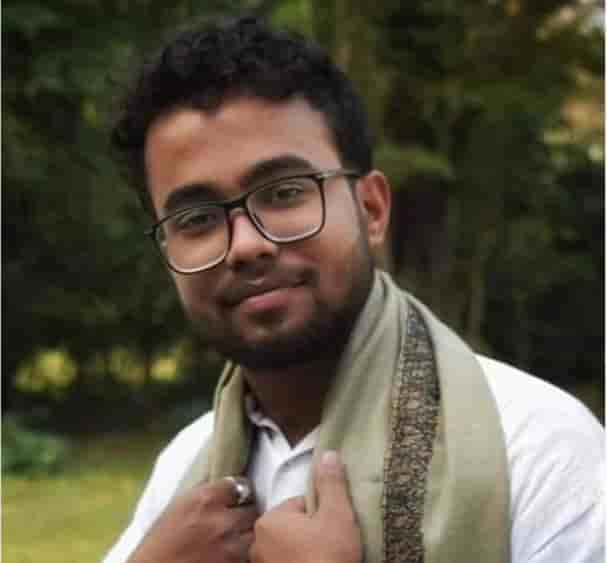
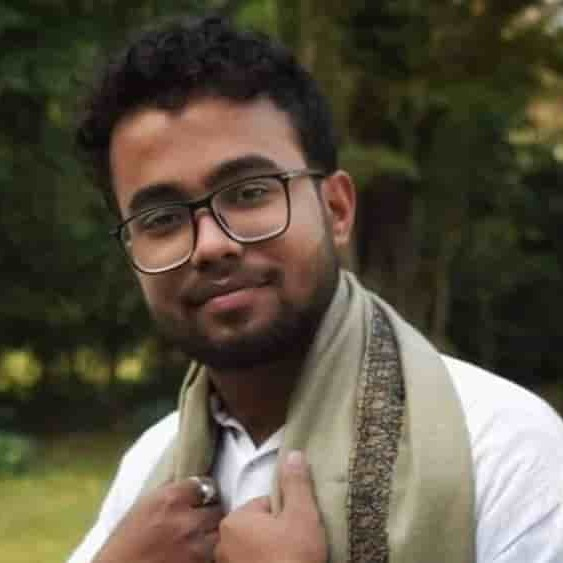
image width compact

diff --git a/_pages/people/students.html b/_pages/people/students.html
@@ -25,9 +25,9 @@ description: Present Students at Department of Statistcs, Visva-Bharati
         {% if year == "1st Year" and year_difference == 0 %}
           <div class="col-lg-3 col-md-4 col-sm-6 mb-5">
             <a href="{{ student.url | relative_url }}">
-              <div class="wrapper card p-1">
+              <div class="wrapper p-1">
                 <div class="img-wrapper">
-                  <img loading="lazy" src="{{ student.image }}" class="img-fluid" alt="{{ student.title }}" width="100%">
+                  <img loading="lazy" src="{{ student.image }}" class="img-fluid" alt="{{ student.title }}" width="200px">
                 </div>
                 <div class="content pt-2 p-1">
                   <h3 class="name">{{ student.title }}</h3>
@@ -41,9 +41,9 @@ description: Present Students at Department of Statistcs, Visva-Bharati
         {% if year == "2nd Year" and year_difference == 1 %}
           <div class="col-lg-3 col-md-4 col-sm-6 mb-5">
             <a href="{{ student.url | relative_url }}">
-              <div class="wrapper card p-1">
+              <div class="wrapper p-1">
                 <div class="img-wrapper">
-                  <img loading="lazy" src="{{ student.image }}" class="img-fluid" alt="{{ student.title }}" width="100%">
+                  <img loading="lazy" src="{{ student.image }}" class="img-fluid" alt="{{ student.title }}" width="200px">
                 </div>
                 <div class="content pt-2 p-1">
                   <h3 class="name">{{ student.title }}</h3>
@@ -57,9 +57,9 @@ description: Present Students at Department of Statistcs, Visva-Bharati
         {% if year == "3rd Year" and year_difference == 2 %}
           <div class="col-lg-3 col-md-4 col-sm-6 mb-5">
             <a href="{{ student.url | relative_url }}">
-              <div class="wrapper card p-1">
+              <div class="wrapper p-1">
                 <div class="img-wrapper">
-                  <img loading="lazy" src="{{ student.image }}" class="img-fluid" alt="{{ student.title }}" width="100%">
+                  <img loading="lazy" src="{{ student.image }}" class="img-fluid" alt="{{ student.title }}" width="200px">
                 </div>
                 <div class="content pt-2 p-1">
                   <h3 class="name">{{ student.title }}</h3>
@@ -94,9 +94,9 @@ description: Present Students at Department of Statistcs, Visva-Bharati
         {% if year == "1st Year" and year_difference == 0 %}
           <div class="col-lg-3 col-md-4 col-sm-6 mb-5">
             <a href="{{ student.url | relative_url }}">
-              <div class="wrapper card p-1">
+              <div class="wrapper p-1">
                 <div class="img-wrapper">
-                  <img loading="lazy" src="{{ student.image }}" class="img-fluid" alt="{{ student.title }}" width="100%">
+                  <img loading="lazy" src="{{ student.image }}" class="img-fluid" alt="{{ student.title }}" width="200px">
                 </div>
                 <div class="content pt-2 p-1">
                   <h3 class="name">{{ student.title }}</h3>
@@ -110,9 +110,9 @@ description: Present Students at Department of Statistcs, Visva-Bharati
         {% if year == "2nd Year" and year_difference == 1 %}
           <div class="col-lg-3 col-md-4 col-sm-6 mb-5">
             <a href="{{ student.url | relative_url }}">
-            <div class="wrapper card p-1">
+            <div class="wrapper p-1">
               <div class="img-wrapper">
-                <img loading="lazy" src="{{ student.image }}" class="img-fluid" alt="{{ student.title }}" width="100%">
+                <img loading="lazy" src="{{ student.image }}" class="img-fluid" alt="{{ student.title }}" width="200px">
               </div>
               <div class="content pt-2 p-1">
                 <h3 class="name">{{ student.title }}</h3>

diff --git a/_pages/people/ug-alumni.html b/_pages/people/ug-alumni.html
@@ -40,11 +40,11 @@ description: UG Alumni of Department of Statistcs, Visva-Bharati
         {% if year_difference > 2 and ug_year == year %}
           <div class="col-lg-3 col-md-4 col-sm-6 mb-5">
             <a href="{{ student.url | relative_url }}">
-              <div class="wrapper card p-1">
+              <div class="wrapper p-1">
                 <div class="img-wrapper">
-                  <img loading="lazy" src="{{ student.image }}" class="img-fluid" alt="{{ student.title }}" width="100%">
+                  <img loading="lazy" src="{{ student.image }}" class="img-fluid" alt="{{ student.title }}" width="200px">
                 </div>
-                <div class="content pt-2 p-1">
+                <div class="content pt-2">
                   <h3 class="name">{{ student.title }}</h3>
                               {% if student.working == null or student.working == "" %}
               {% assign last_degree = student.degrees | last %}
